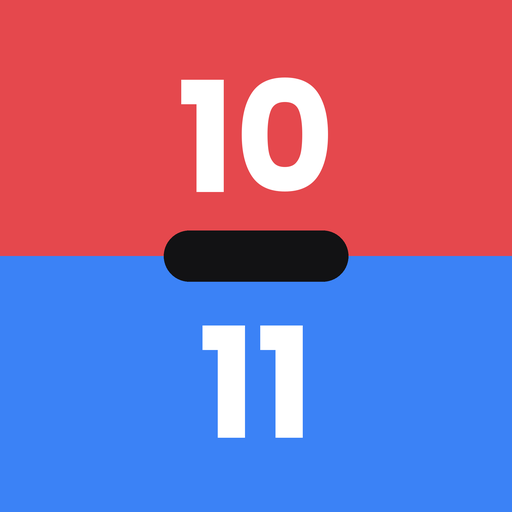
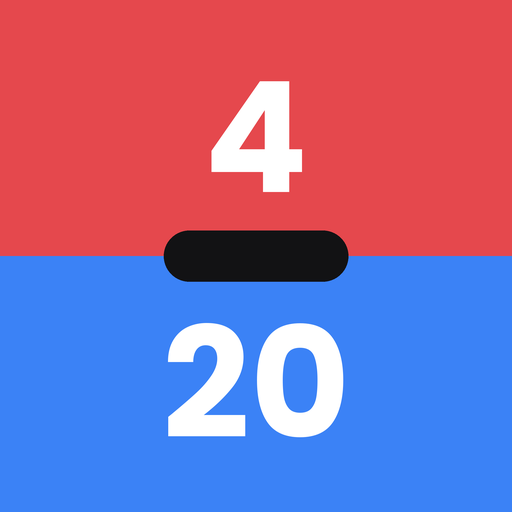
Standaard rood vs blauw, icoon 4-20
Claude-Session: https://claude.ai/code/session_01Cy4N5N9ZBvSeUuAcCRKvfv

Changed region(s): [[0.3125, 0.625, 0.6875, 0.875], [0.3438, 0.125, 0.6562, 0.375]]

diff --git a/index.html b/index.html
@@ -209,8 +209,8 @@ const COLORS = ['#FCFC54','#EE9536','#E5484D','#F472B6','#8B5CF6','#3B82F6','#22
 
 const defaults = () => ({
   teams: [
-    { name: 'Team 1', color: '#FCFC54', score: 0 },
-    { name: 'Team 2', color: '#EE9536', score: 0 }
+    { name: 'Team 1', color: '#E5484D', score: 0 },
+    { name: 'Team 2', color: '#3B82F6', score: 0 }
   ],
   timerMin: 8,
   timer: { running: false, remainingMs: 8 * 60000, endAt: 0 },

diff --git a/sw.js b/sw.js
@@ -1,5 +1,5 @@
 /* Offline support: serve the app from cache, refresh the cache in the background */
-const CACHE = 'scorebord-v2';
+const CACHE = 'scorebord-v3';
 const FILES = ['./', './index.html', './manifest.webmanifest', './icon-192.png', './icon-512.png', './apple-touch-icon.png'];
 
 self.addEventListener('install', e => {
